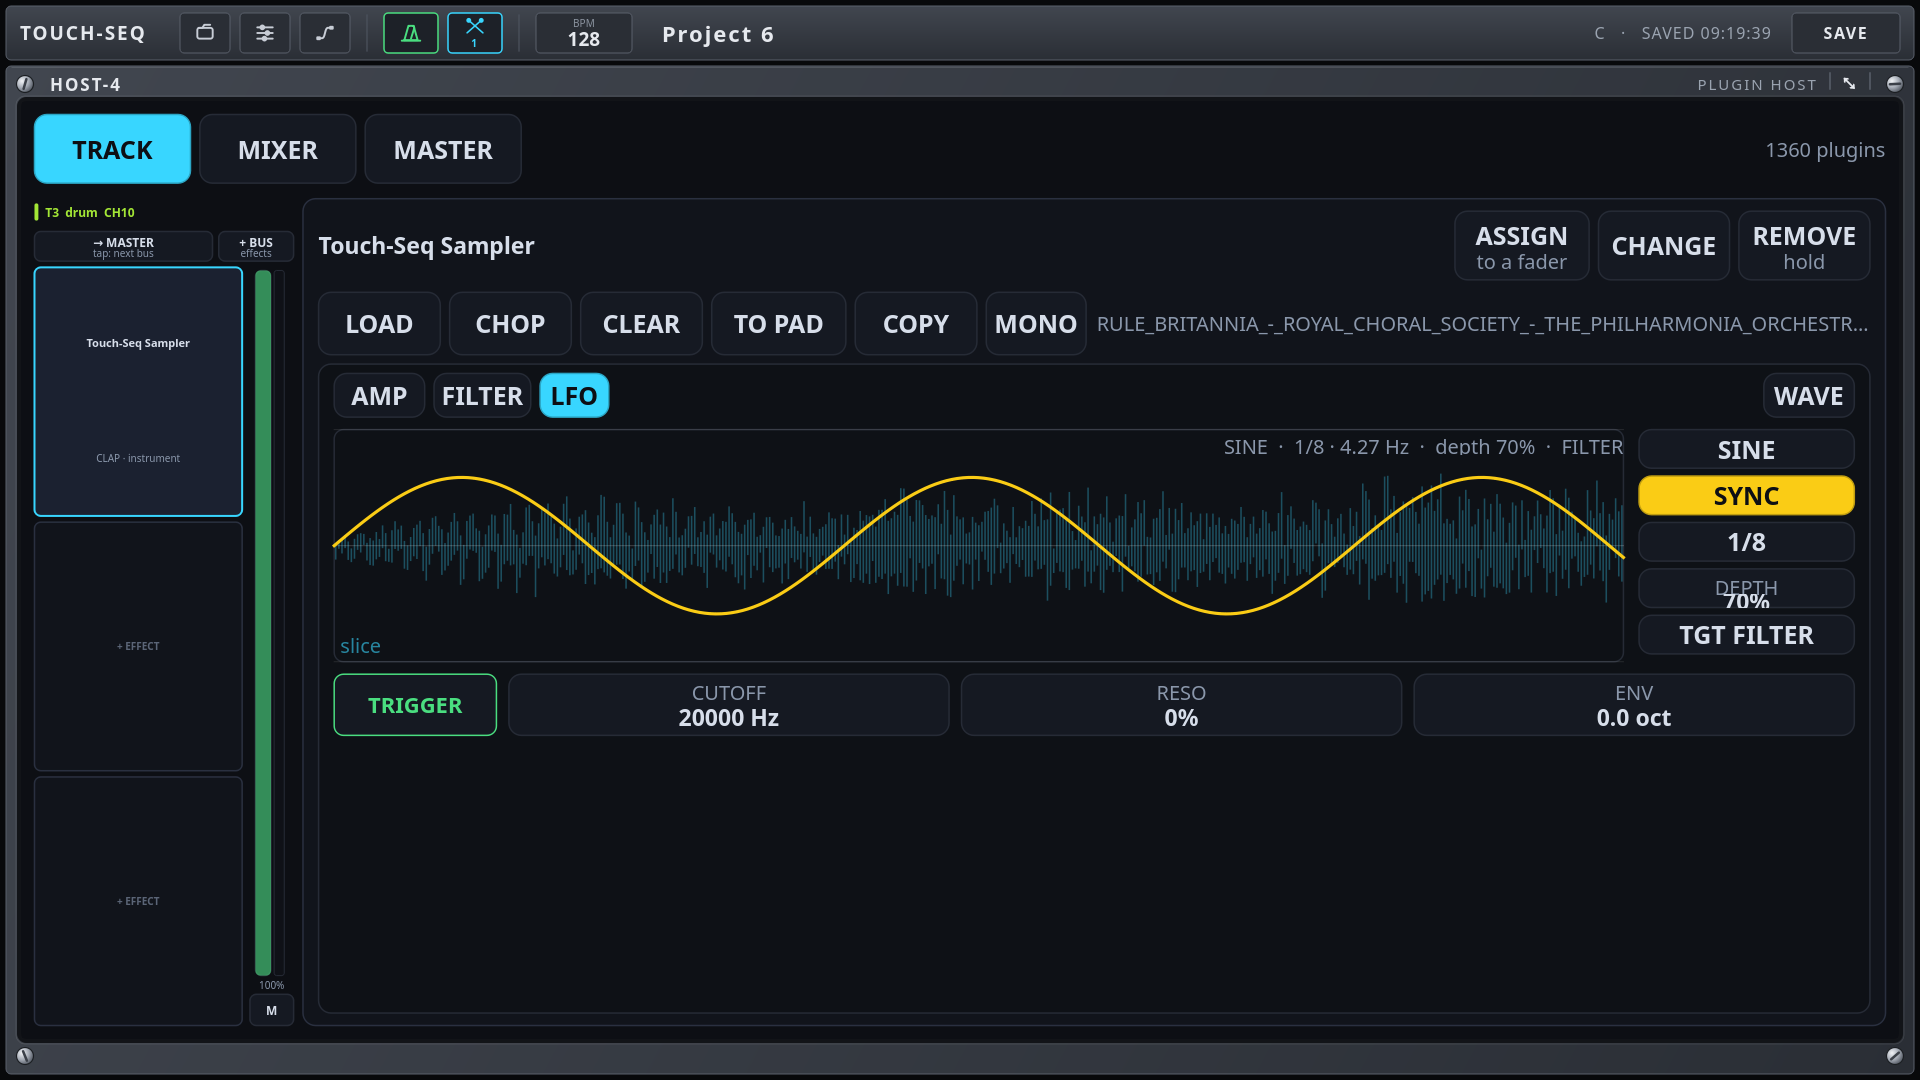
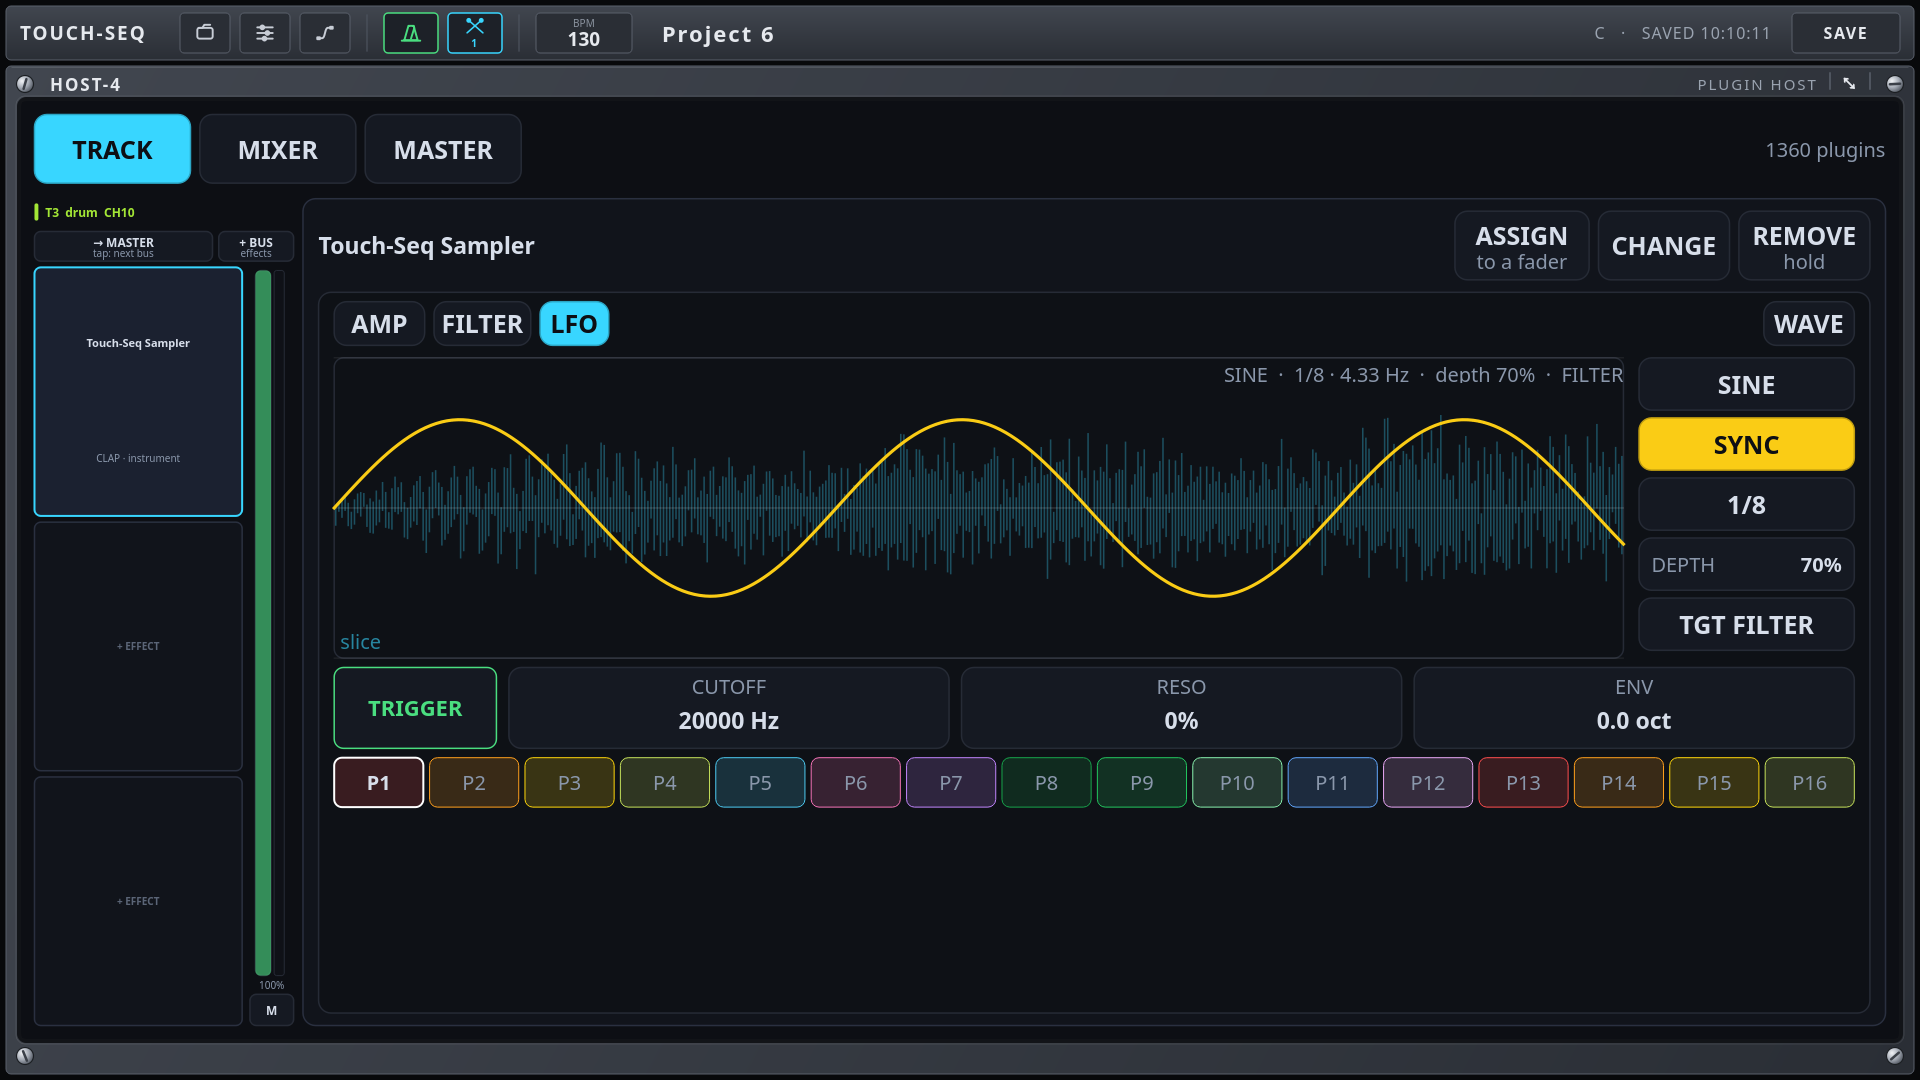
sampler: full-panel ADSR/LFO with the pad strip and independent pad copies

diff --git a/tseq/sampler.py b/tseq/sampler.py
@@ -1,6 +1,7 @@
 """The sampler editor: a WAV waveform, chop markers, 16 MPC-style pads and the selected pad's controls. It
 draws in HOST-4's parameter area (the sampler has no window of its own) and keeps the pad map in the project's
 plugins folder, where the sampler plugin reads it."""
+import copy
 import math
 import os
 import re
@@ -588,7 +589,7 @@ class SamplerEditor:
         pad = self.pads[src]
         if not pad or index == src:
             return False
-        self.pads[index] = {**pad, "root": SAMPLER_NOTE_BASE + index}
+        self.pads[index] = {**copy.deepcopy(pad), "root": SAMPLER_NOTE_BASE + index}
         self.say(f"copied P{src + 1} → P{index + 1}")
         self.save_reload()
         return True
@@ -809,6 +810,10 @@ class SamplerEditor:
     def draw(self, p, r, plugin, slot, manifest):
         self.use(plugin, slot, manifest)
         s = self.panel.s
+        if self.env_open:  # the envelope editor is a mode of its own: LOAD/CHOP/TO PAD are not usable here
+            self.draw_wave(p, r)
+            self.draw_message(p, r, r)
+            return
         header = QRectF(r.left(), r.top(), r.width(), 40 * s)
         load, chop, clear, assign, copy, mono, name = split(
             header, [78 * s, 78 * s, 78 * s, 86 * s, 78 * s, 64 * s, 0], 6 * s)
@@ -821,10 +826,6 @@ class SamplerEditor:
         self.panel.text(p, name, self.current or "no sample", DIM, 12, elide=True)
 
         body = QRectF(r.left(), header.bottom() + 6 * s, r.width(), r.bottom() - header.bottom() - 6 * s)
-        if self.env_open:  # the envelope editor takes the whole area: the pads stay out of its way
-            self.draw_wave(p, body)
-            self.draw_message(p, body, r)
-            return
         wave_h = body.height() * 0.46
         wave = QRectF(body.left(), body.top(), body.width(), wave_h)
         lower = QRectF(body.left(), wave.bottom() + 8 * s, body.width(), body.bottom() - wave.bottom() - 8 * s)
@@ -850,8 +851,8 @@ class SamplerEditor:
         toast = QRectF(0, 0, width, 30 * s)
         if self.presets_open and area is not None:
             toast.moveCenter(QPointF(area.center().x(), area.bottom() - 26 * s))
-        elif self.env_open:  # the curve owns the middle
-            toast.moveCenter(QPointF(wave.center().x(), wave.bottom() - 24 * s))
+        elif self.env_open:  # over the curve's top: the pad strip at the bottom stays clear
+            toast.moveCenter(QPointF(wave.center().x(), wave.top() + 44 * s))
         elif self.loading:  # the spinner owns the middle
             toast.moveCenter(QPointF(wave.center().x(), wave.bottom() - 24 * s))
         else:
@@ -1036,9 +1037,22 @@ class SamplerEditor:
         tab = self.env_tab
         body = QRectF(rect.left() + 10 * s, header.bottom() + 8 * s, rect.width() - 20 * s,
                       rect.height() - header.bottom() - 18 * s)
-        bottom_h = min(58 * s, max(36 * s, body.height() * 0.20))
-        bottom = QRectF(body.left(), body.bottom() - bottom_h, body.width(), bottom_h)
-        work = QRectF(body.left(), body.top(), body.width(), body.height() - bottom_h - 8 * s)
+        strip_h = min(36 * s, max(26 * s, body.height() * 0.11))
+        strip = QRectF(body.left(), body.bottom() - strip_h, body.width(), strip_h)
+        bottom_h = min(58 * s, max(36 * s, body.height() * 0.18))
+        bottom = QRectF(body.left(), strip.top() - bottom_h - 6 * s, body.width(), bottom_h)
+        work = QRectF(body.left(), body.top(), body.width(), bottom.top() - body.top() - 6 * s)
+        # every pad stays reachable while editing an envelope: no trip through WAVE to choose another one
+        for index, cell in enumerate(split(strip, [0] * SAMPLER_PADS, 4 * s)):
+            slot_pad = self.pads[index]
+            chosen = index == self.pad
+            colour = self.pad_color(index) if slot_pad else "#242a36"
+            fill = QColor(colour)
+            fill.setAlpha(45)
+            self.panel.box(p, cell, fill if slot_pad else "#11141b",
+                           "#ffffff" if chosen else colour, 2 if chosen else 1, radius=5)
+            self.panel.text(p, cell, f"P{index + 1}", TEXT if chosen else DIM, 10, bold=chosen)
+            self.panel.on_press(cell, lambda index=index: self.select_pad(index))
         trigger = QRectF(bottom.left(), bottom.top(), min(104 * s, bottom.width() * 0.22), bottom.height())
         self.panel.box(p, trigger, PANEL, "#4ade80", radius=6)
         self.panel.text(p, trigger, "TRIGGER", "#4ade80", 14, bold=True)
@@ -1172,11 +1186,11 @@ class SamplerEditor:
                       0, 1, 1.5 * s, 0.01,
                       lambda: math.log(max(0.05, self.pads[self.pad].get("lfo_rate", 2.0)) / 0.05) / math.log(400.0),
                       lambda v: self.pads[self.pad].__setitem__("lfo_rate", 0.05 * 400.0 ** v),
-                      show=lambda v: f"{0.05 * 400.0 ** v:.2f} Hz")
+                      show=lambda v: f"{0.05 * 400.0 ** v:.2f} Hz", compact=True)
         self.knob(p, cells[3], "DEPTH", depth, 0, 1, 1.5 * s, 0.01,
                   lambda: self.pads[self.pad].get("lfo_depth", 0.0),
                   lambda v: self.pads[self.pad].__setitem__("lfo_depth", v),
-                  show=lambda v: f"{v * 100:.0f}%")
+                  show=lambda v: f"{v * 100:.0f}%", compact=True)
         self.panel.button(p, cells[4], f"TGT {self.LFO_TARGETS[target]}", self.cycle_lfo_target)
 
     def draw_spinner(self, p, rect):
@@ -1330,12 +1344,18 @@ class SamplerEditor:
             if abs(pad["pitch"] - near) <= 0.08:
                 pad["pitch"] = float(near)
 
-    def knob(self, p, rect, label, value, lo, hi, px, unit, get, set_, snap=None, show=None):
+    def knob(self, p, rect, label, value, lo, hi, px, unit, get, set_, snap=None, show=None, compact=False):
         s = self.panel.s
         self.panel.box(p, rect, PANEL, BORDER, radius=8)
-        self.panel.text(p, rect.adjusted(0, 3 * s, 0, 0), label, DIM, 10, Qt.AlignHCenter | Qt.AlignTop)
-        self.panel.text(p, rect.adjusted(0, 16 * s, 0, 0), show(value) if show else f"{value:.2f}", TEXT, 15,
-                        bold=True)
+        shown = show(value) if show else f"{value:.2f}"
+        if compact:  # one line: no room for the stacked label and value in a short row
+            self.panel.text(p, rect.adjusted(8 * s, 0, -8 * s, 0), label, DIM, 10,
+                            Qt.AlignLeft | Qt.AlignVCenter)
+            self.panel.text(p, rect.adjusted(8 * s, 0, -8 * s, 0), shown, TEXT, 12,
+                            Qt.AlignRight | Qt.AlignVCenter, bold=True)
+        else:
+            self.panel.text(p, rect.adjusted(0, 3 * s, 0, 0), label, DIM, 10, Qt.AlignHCenter | Qt.AlignTop)
+            self.panel.text(p, rect.adjusted(0, 16 * s, 0, 0), shown, TEXT, 15, bold=True)
         self.panel.region(rect, lambda pos: PadDrag(pos, get, set_, lo, hi, px, unit, self.save_reload, snap,
                                                     self.save_live))
 

diff --git a/tests/test_app.py b/tests/test_app.py
@@ -2538,6 +2538,8 @@ assert editor.pads[0]["start"] == 960 and editor.pads[0]["end"] == 2880, editor.
 # COPY: the same chop on another pad, with its own pitch (one slice, two notes)
 editor.select_pad(0)
 editor.pads[0]["pitch"] = 5.0
+editor.pads[0]["amp"] = [0.1, 0.2, 0.7, 0.3]
+editor.pads[0]["lfo_rate"] = 4.0
 editor.copy_pad()
 assert editor.copy_src == 0, editor.copy_src
 editor.select_pad(7)
@@ -2545,6 +2547,10 @@ cp = editor.pads[7]
 assert cp and cp["file"] == editor.pads[0]["file"], cp
 assert (cp["start"], cp["end"]) == (editor.pads[0]["start"], editor.pads[0]["end"]), cp
 assert cp["root"] == 36 + 7 and cp["pitch"] == 5.0, cp  # the target's own note as root: it sounds the same
+assert cp["amp"] == [0.1, 0.2, 0.7, 0.3] and cp["lfo_rate"] == 4.0, "the copy keeps the envelopes and LFO"
+assert cp["amp"] is not editor.pads[0]["amp"], "but its envelope lists are its own"
+cp["amp"][0] = 0.9
+assert editor.pads[0]["amp"][0] == 0.1
 assert editor.copy_src is None and editor.pad == 7
 editor.pads[7]["pitch"] = 12.0
 assert editor.pads[0]["pitch"] == 5.0, "the two pads have independent pitch"

diff --git a/README.md b/README.md
@@ -65,7 +65,8 @@ cursor, and change the arrangement **on the bar** instead of on the downbeat of 
   format), see its waveform (pan, **+ / − / FIT**, pinch), tap to add chop markers, **CHOP** into 16 slices,
   select a pad and **TO PAD** a slice. **COPY** then a tap on another pad puts the same slice there, so one
   chop can sit on several pads — each with its own **PITCH** (the copy starts at the source's pitch and keeps
-  the target pad's note as its root, so it sounds identical until you change it). The pads use the same fixed
+  the target pad's note as its root, so it sounds identical until you change it). **COPY** also brings the
+  pad's envelopes and LFO along, as independent copies. The pads use the same fixed
   colors as the drum voices. Each pad has Gain (up to 4×), Pan, Pitch, Loop, Reverse and **Gate** (play while
   held vs one-shot) and a **GRP** playback group: pads in the same group cut each other, like MONO for that
   group. **MONO** cuts the previous pad when a new one starts. **PITCH** moves at 12 px per semitone and snaps
@@ -73,8 +74,10 @@ cursor, and change the arrangement **on the bar** instead of on the downbeat of 
   shift, not resampling). **STOP** silences every voice. **ADSR** turns the waveform into the amp or filter
   envelope editor: the slice's waveform is a dim ghost behind the curve. The times are fractions of the slice,
   so lengthening the slice stretches the envelope with it; a reversed pad mirrors the envelope, so it fires
-  from the slice's end. **TRIGGER** (under the curve) holds the pad for auditioning, exactly like tapping it,
-  and the filter tab also has **Cutoff**, **Reso** and the envelope depth. The third tab is an **LFO**:
+  from the slice's end. **TRIGGER** (under the curve) holds the pad for auditioning, exactly like tapping it.
+  The envelope editor takes the whole panel (LOAD/CHOP/TO PAD step aside) and keeps **all 16 pads** in a strip
+  at the bottom, so choosing another pad never means going back through WAVE. The filter tab also has
+  **Cutoff**, **Reso** and the envelope depth. The third tab is an **LFO**:
   SINE/TRI/SQUARE/SAW, 0.05–20 Hz or **SYNC** to the project tempo (1/1 … 1/16T), depth and a target — AMP
   (tremolo), FILTER (±2 octaves) or PITCH (±2 semitones); it retriggers with every note. The LFO view keeps
   the filter's Cutoff/Reso/Env at the bottom, so both can be shaped without changing tabs. The editor's pads play while held, like PLAY-12's, so
@@ -254,7 +257,8 @@ the first free name (*Touch-Seq 2*, …) and says so in HOST-4's status line: bo
   **MONO** cuts the previous pad when a new one starts; **STRETCH** shifts the pitch without changing the
   length, and **STOP** silences every voice. **ADSR** draws the amp/filter envelope over the slice's ghost,
   scaled to the slice (so it stretches when the slice does; a reversed pad mirrors it) with a **TRIGGER** to
-  audition; the filter tab adds a low-pass with Cutoff, Reso and envelope depth. The **LFO** tab has the same
+  audition, and all 16 pads along the bottom to switch without leaving; the filter tab adds a low-pass with
+  Cutoff, Reso and envelope depth. The **LFO** tab has the same
   four waves, a free rate or **SYNC** to the project tempo (1/1 … 1/16T), depth and an AMP/FILTER/PITCH target,
   with the filter controls at the bottom. The editor's pads play while held, so GATE/LOOP work as in
   PLAY-12, and slice edits are heard on a held loop as it is dragged. **PRESETS** saves the pads and the
